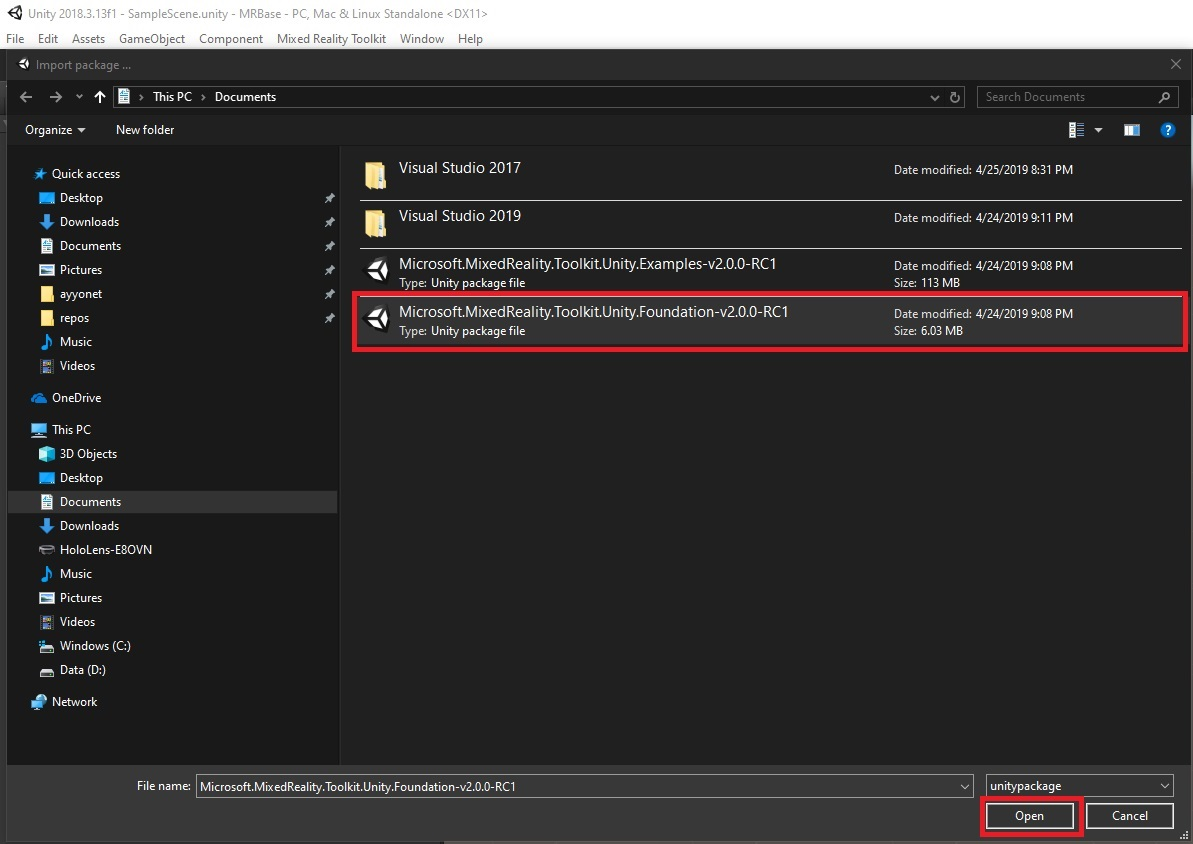
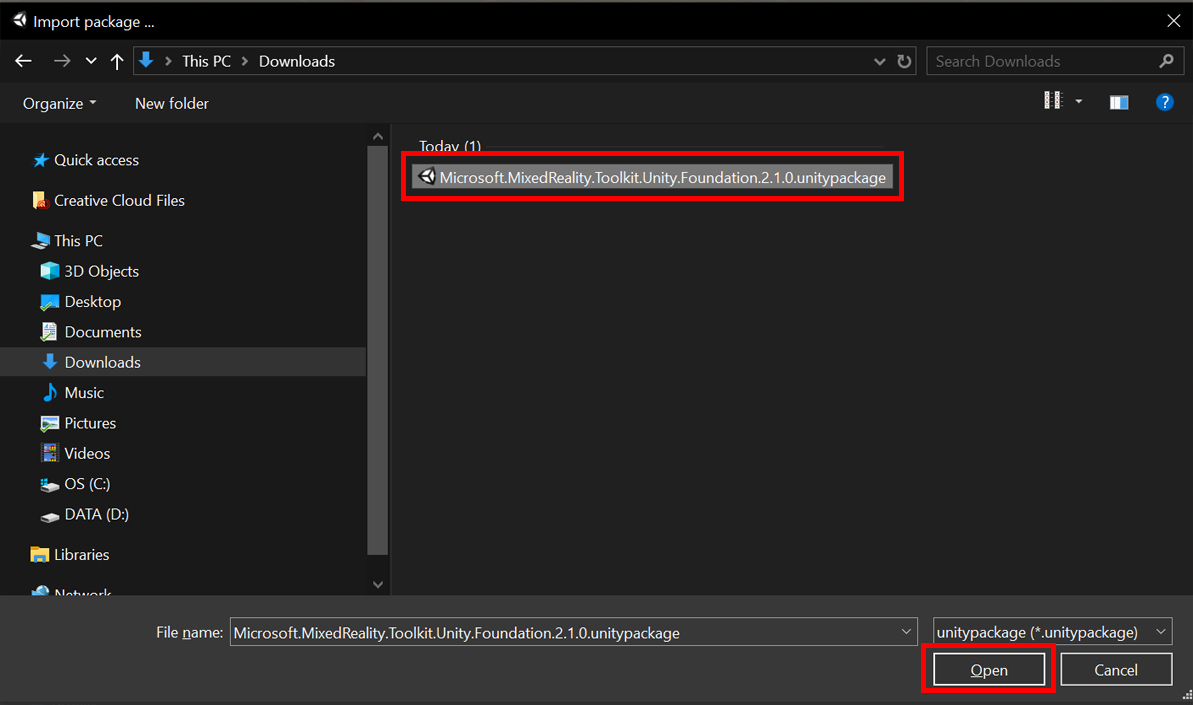
Updates to base ch1

Changed region(s): [[0.0, 0.0, 1.0, 1.0]]

diff --git a/mixed-reality-docs/mrlearning-base-ch1.md b/mixed-reality-docs/mrlearning-base-ch1.md
@@ -54,18 +54,17 @@ In this first lesson, you'll learn about some of the capabilities the [Mixed Rea
 
 ### Import the Mixed Reality Toolkit
 
-1. Download the latest [Mixed Reality Toolkit](https://github.com/microsoft/MixedRealityToolkit-Unity/releases) Unity packages, and save them to a folder on your PC.
+1. Download the [Mixed Reality Toolkit](https://github.com/microsoft/MixedRealityToolkit-Unity/releases) Unity [foundation package version 2.1.0](https://github.com/microsoft/MixedRealityToolkit-Unity/releases/download/v2.1.0/Microsoft.MixedReality.Toolkit.Unity.Foundation.2.1.0.unitypackage) and save it to a folder on your PC.
 
-2. Import each of the *Mixed Reality Toolkit* packages. Start by clicking on **Assets** > **Import** > **Custom Package**. Select one of the *Mixed Reality Toolkit* packages downloaded in Step 1 and open it to begin the importing process. Please allow a few minutes for the importing process.
+2. Import the *Mixed Reality Toolkit* package that you downloaded in the previous step. Start by clicking on **Assets** > **Import** > **Custom Package** and select *Microsoft.MixedReality.Toolkit.Unity.Foundation.2.1.0.unitypackage* and open it to begin the importing process. Please allow a few minutes for the importing process to complete.
     ![Lesson1 Section3 Step2a](images/mrlearning-base-ch1-3-step2a.JPG)
     ![Lesson1 Section3 Step2b](images/mrlearning-base-ch1-3-step2b.JPG)
 
 3. In the next pop-up window, click **Import** to begin importing the selected package into the Unity project. Ensure all items are checked as shown in the image.
     ![Lesson1 Section3 Step3](images/mrlearning-base-ch1-3-step3.JPG)
-4. Repeat steps 2 and 3 above for each package *Mixed Reality Toolkit* package downloaded.
 
     > [!NOTE]
-    > If you see a pop-up dialog box asking to apply the Mixed Reality Toolkit default settings, click **Apply**. MRTK analyzes your project for any missing recommended settings when imported for automated setup.
+    > If you see a pop-up dialog box asking to apply the Mixed Reality Toolkit default settings, click **Apply**. MRTK analyzes your project for any missing recommended settings when imported for automated setup. Depending on your settings the popup might look differnt then the image below.
 
     ![Lesson1 Section3 Step4 Note1](images/mrlearning-base-ch1-3-step4-note1.JPG)
 
@@ -75,9 +74,9 @@ In this first lesson, you'll learn about some of the capabilities the [Mixed Rea
   ![Lesson1 Section4 Step1](images/mrlearning-base-ch1-4-step1.JPG)
 
     > [!NOTE]
-    > You may see a pop-up dialog box asking to select a [profile for the Mixed Reality Toolkit](https://microsoft.github.io/MixedRealityToolkit-Unity/Documentation/Profiles/Profiles.html). If so, select **Ok**, and choose the profile named *"DefaultMixedRealityToolkitConfigurationProfile"*.
+    > You may see a pop-up dialog box for selecting a [profile for the Mixed Reality Toolkit](https://microsoft.github.io/MixedRealityToolkit-Unity/Documentation/Profiles/Profiles.html). Choose the profile named *DefaultMixedRealityToolkitConfigurationProfile* by double-clicking it.
 
-2. Your scene will have several new items and modifications. Save your scene under a different name by clicking **File** > **Save As**, and give your scene a name, such as *BaseScene*. Keep your scene organized by saving it to the *Scenes* folder in your project’s *Assets* folder.
+2. Your scene will have several new items and modifications. Save your scene under a different name by clicking **File** > **Save As...**, and give your scene a name, such as *BaseScene*. Keep your scene organized by saving it to the *Scenes* folder in your project’s *Assets* folder.
   ![Lesson1 Section4 Step2a](images/mrlearning-base-ch1-4-step2a.JPG)
   ![Lesson1 Section4 Step2b](images/mrlearning-base-ch1-4-step2b.JPG)
 
@@ -106,26 +105,26 @@ In this first lesson, you'll learn about some of the capabilities the [Mixed Rea
 
     ![Lesson1 Section5 Step5](images/mrlearning-base-ch1-5-step5.JPG)
 
-6. Connect your HoloLens 2 into your PC. While these instructions assume you will be deploying to a HoloLens 2 device, you might also choose to deploy to the [HoloLens 2 emulator](using-the-hololens-emulator.md) or choose to create an [app package for sideloading](<https://docs.microsoft.com/en-us/windows/uwp/packaging/packaging-uwp-apps>)
+6. Connect your HoloLens 2 to your PC. While these instructions assume you will be deploying to a HoloLens 2 device, you might also choose to deploy to the [HoloLens 2 emulator](using-the-hololens-emulator.md) or choose to create an [app package for sideloading](<https://docs.microsoft.com/en-us/windows/uwp/packaging/packaging-uwp-apps>)
 
     > [!IMPORTANT]
     > Before building to your device, the device must be in *Developer Mode* and paired with your development machine. Both of these steps can be completed by following [these instructions](using-visual-studio.md)
 
-8. Configure Visual Studio for building to your HoloLens 2 by selecting the *Release* or *Master* configuration and the *ARM* architecture.
-    ![Lesson1 Section5 Step8](images/mrlearning-base-ch1-5-step8.JPG)
+7. Configure Visual Studio for building to your HoloLens 2 by selecting the *Release* or *Master* configuration, the *ARM* architecture, and *Device* as target.
+    ![Lesson1 Section5 Step8](images/mrlearning-base-ch1-5-step7.JPG)
 
-9. The final step is to build and deploy to your device by selecting **Debug** > **Start without debugging**. Selecting *Start without Debugging* causes the application to immediately start on your device upon a successful build, but without the debugger attached and information appearing in Visual Studio. This also means that you can disconnect your USB cable while your application is running on your HoloLens 2 without stopping the application.
+8. The final step is to build and deploy to your device by selecting **Debug** > **Start without debugging**. Selecting *Start without Debugging* causes the application to immediately start on your device upon a successful build, but without the debugger attached and information appearing in Visual Studio. This also means that you can disconnect your USB cable while your application is running on your HoloLens 2 without stopping the application.
 
     > [!NOTE]
     > You might also select **Build** > **Deploy Solution** to deploy to your device without having the application automatically start.
 
-    ![Lesson1 Section5 Step9](images/mrlearning-base-ch1-5-step9-note1.JPG)
+    ![Lesson1 Section5 Step9](images/mrlearning-base-ch1-5-step8.JPG)
 
 ## Congratulations
 
 You have now deployed your first HoloLens 2 application. As you walk around, you should see a spatial mapping mesh covering all the surfaces that have been perceived by the HoloLens 2. Additionally, you should see indicators on your hands and fingers for hand tracking and a frame rate counter for keeping an eye on application performance. These are just a few of the foundational pieces, included out of the box, with the Mixed Reality Toolkit. In the lessons to come, you will start adding more content and interactivity to your scene so that you can fully explore the capabilities of HoloLens 2 and the Mixed Reality Toolkit.
 
 > [!NOTE]
-> You will cover how to toggle the frame rate counter using a voice command in [Lesson 5](mrlearning-base-ch5.md). It is generally recommended to keep the visual profiler visible at all times during development to understand when code changes may have impacted perf. HoloLens 2 application should [continuously run at 60 FPS](understanding-performance-for-mixed-reality.md).
+> In the app you may notice the visual profiler. You will cover how to toggle the frame rate counter using a voice command in [Lesson 5](mrlearning-base-ch5.md). It is generally recommended to keep the visual profiler visible at all times during development to understand when code changes may have impacted perf. HoloLens 2 application should [continuously run at 60 FPS](understanding-performance-for-mixed-reality.md).
 
 [Next Lesson: 3. Creating user interface and configure Mixed Reality Toolkit](mrlearning-base-ch2.md)
